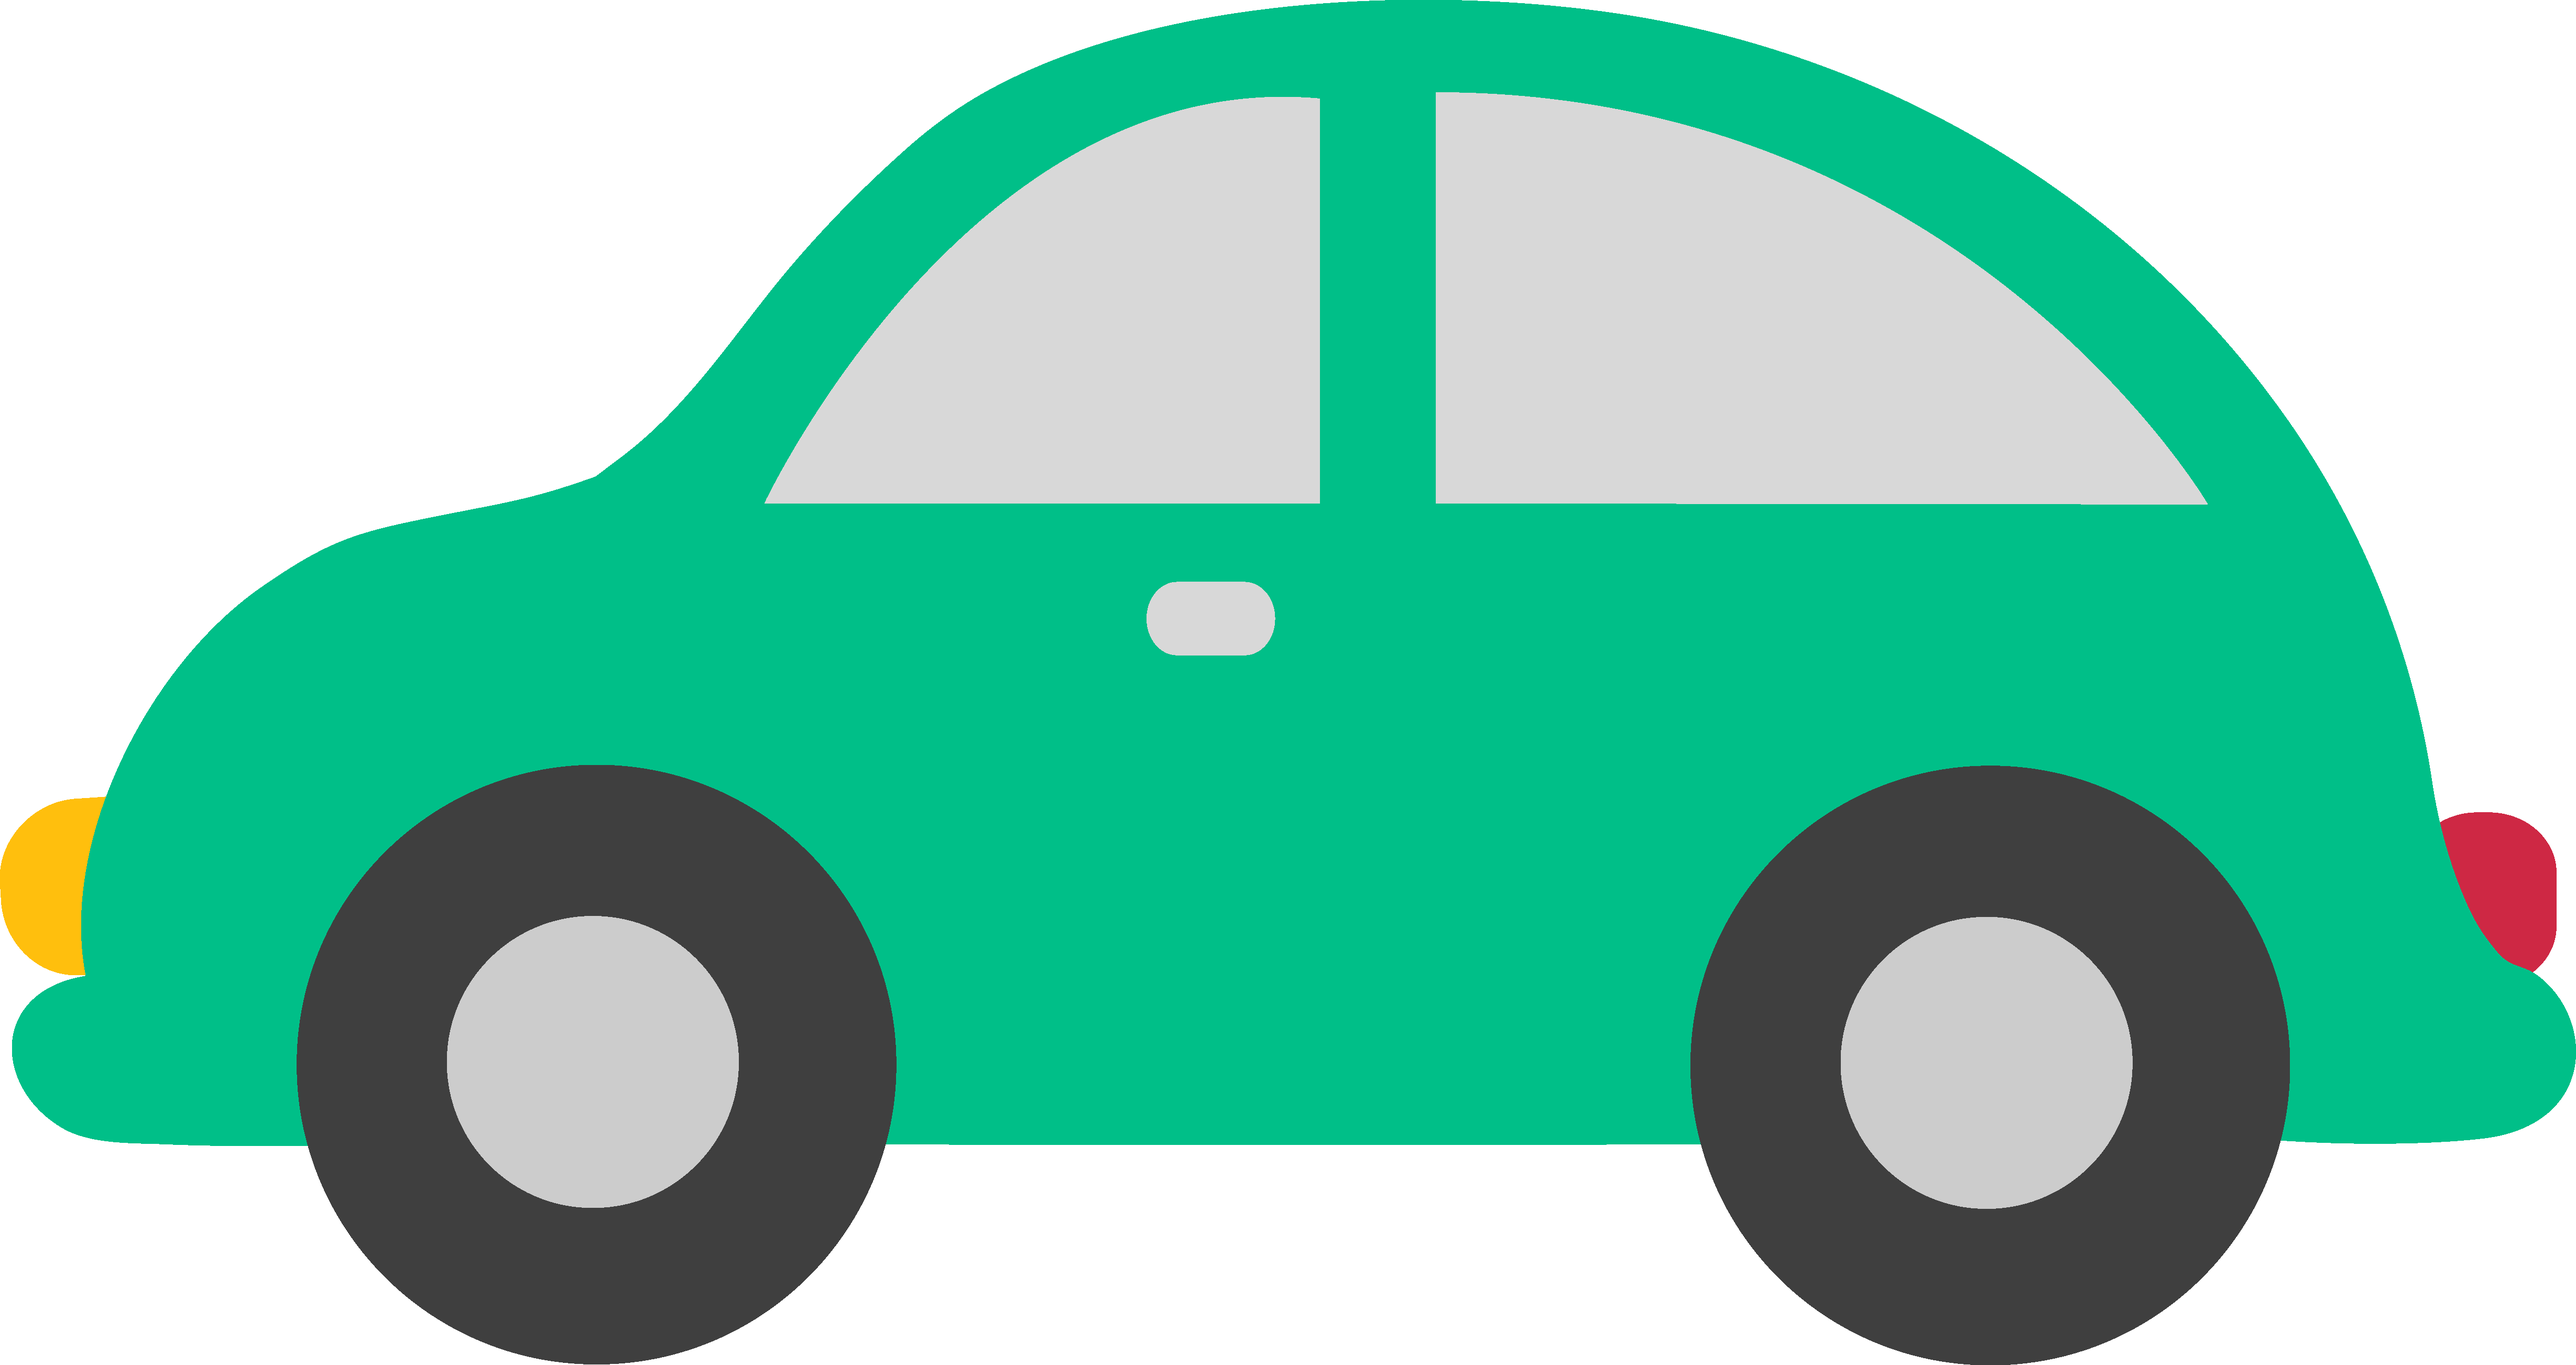
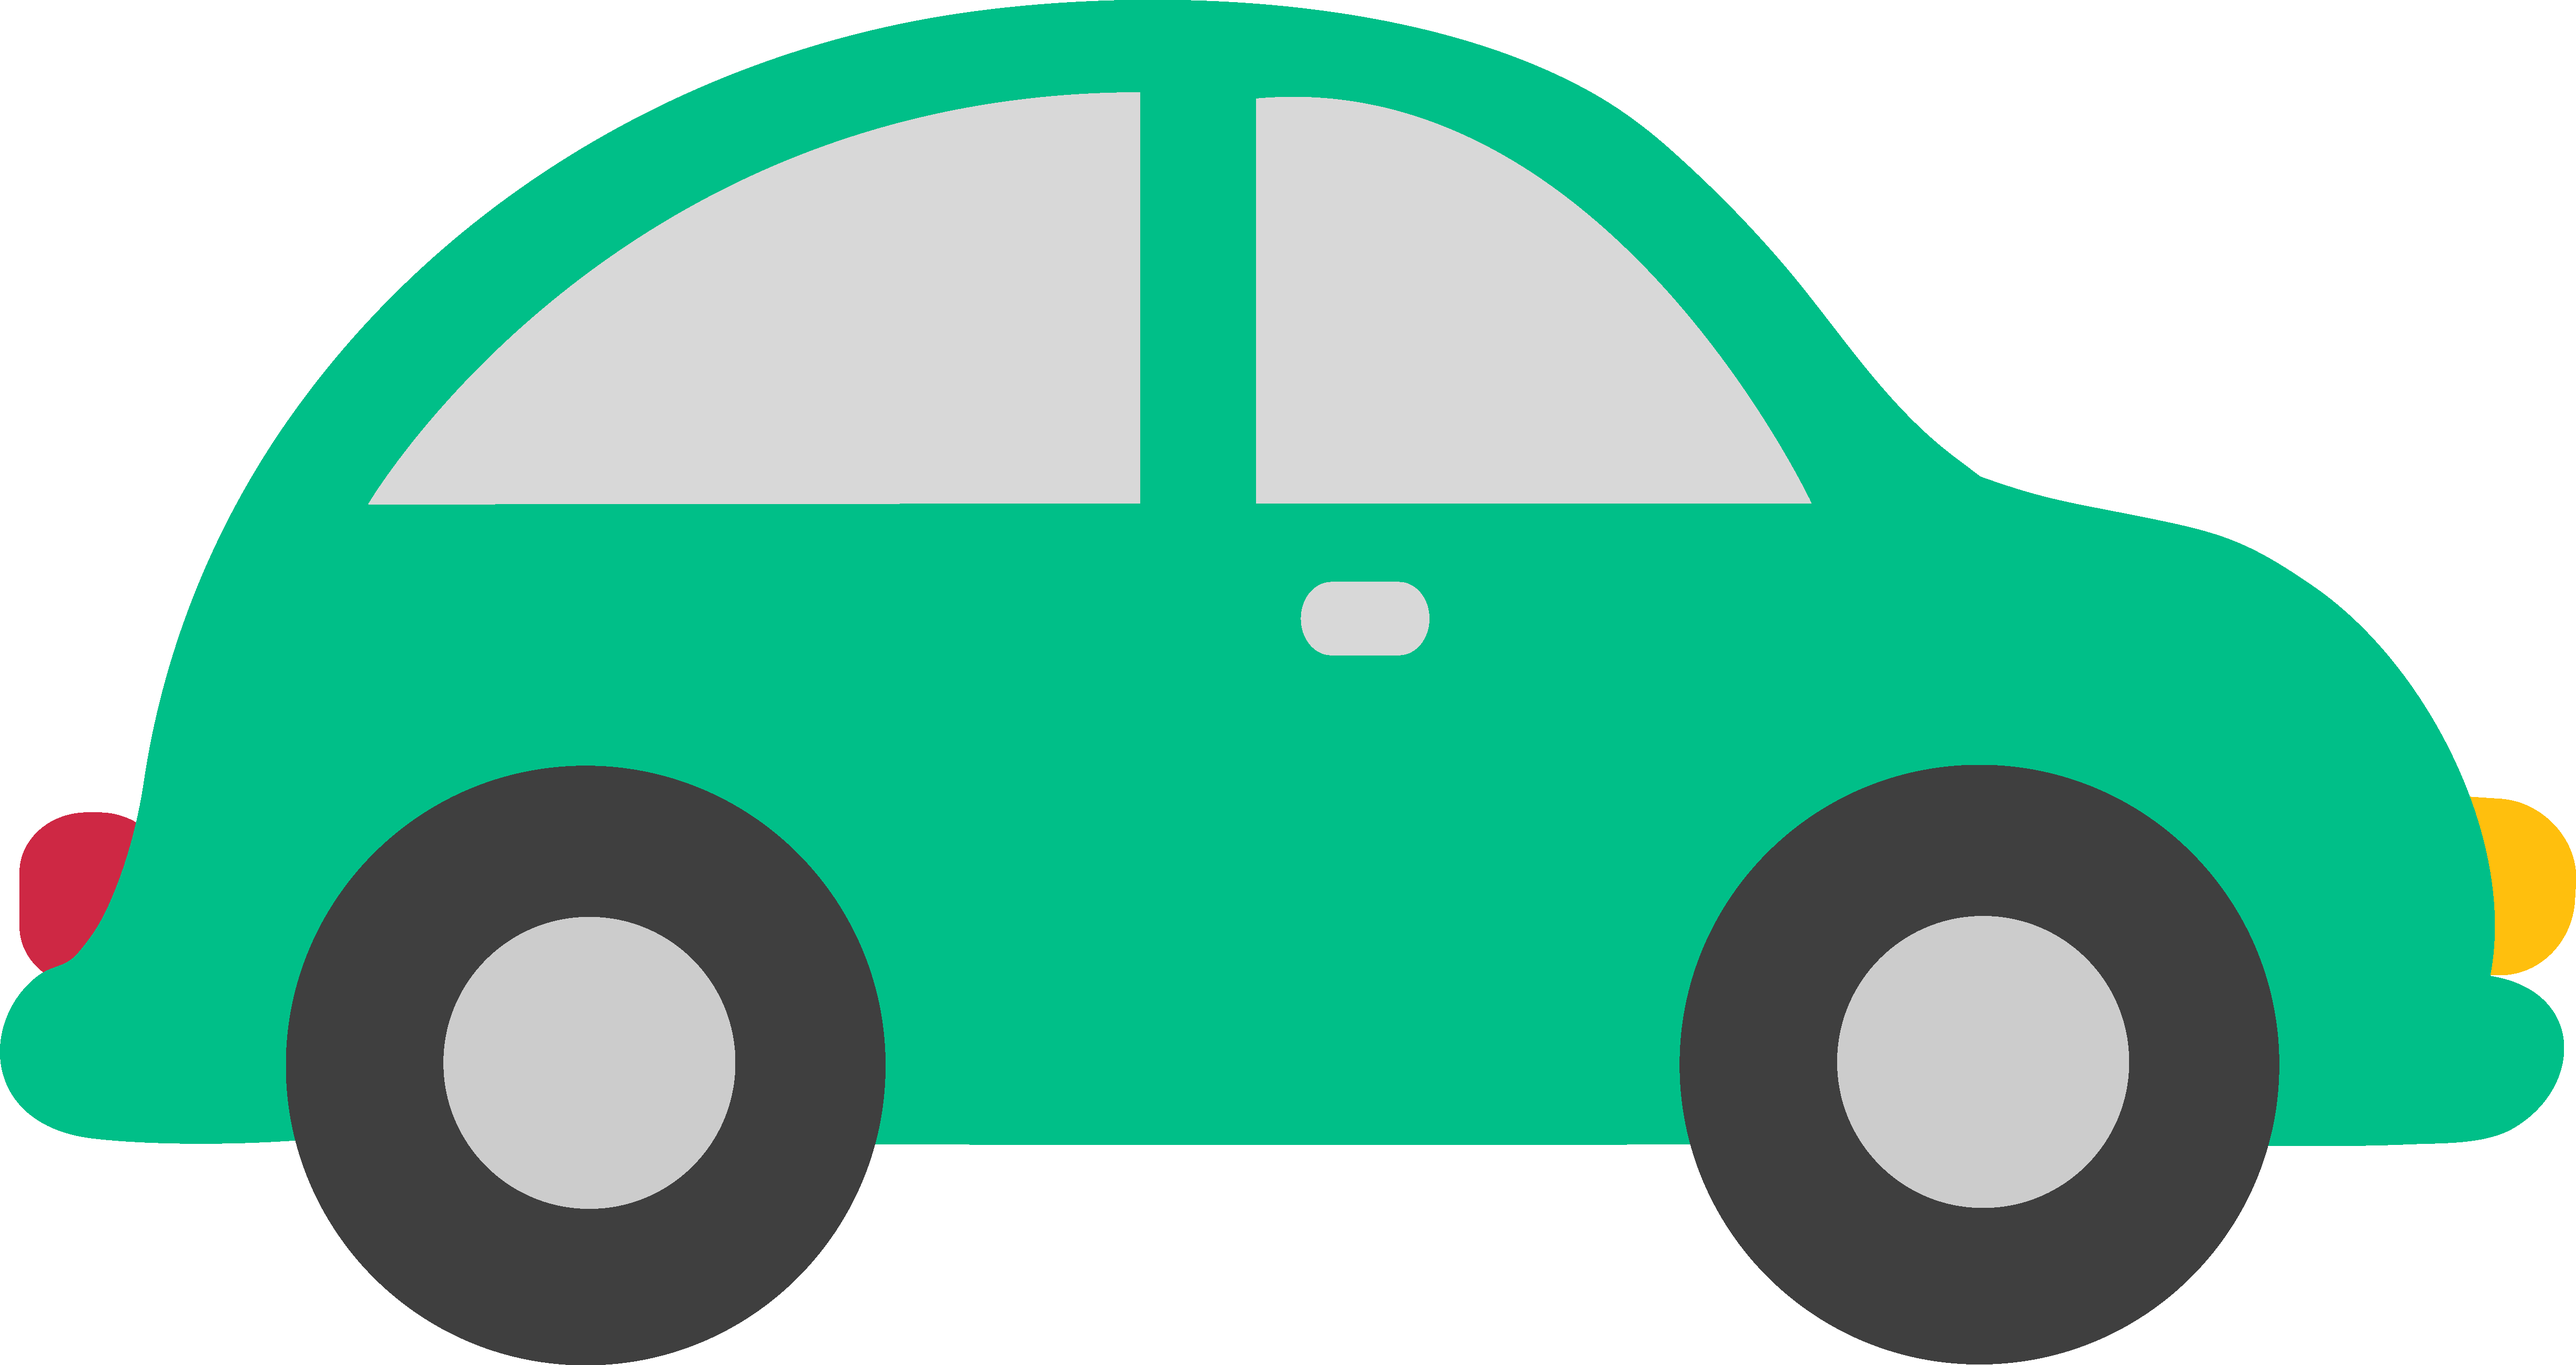
car animation

diff --git a/header.html b/header.html
@@ -21,6 +21,7 @@
 	</head>
 	<body>
 		<h1>Controlling Angry Road Rage Serially</h1>
+		<img src="smol_car.png" id="car">
 				<header class ="navbar" role = "banner">
 					<div class="container">
 						<nav class="navbar navbar-default">
@@ -47,6 +48,7 @@
     <!-- jQuery (necessary for Bootstrap's JavaScript plugins) -->
     <script src="https://ajax.googleapis.com/ajax/libs/jquery/1.12.4/jquery.min.js"></script>
     <!-- Include all compiled plugins (below), or include individual files as needed -->
-    <script src="js/bootstrap.min.js"></script>
+		<script src="js/bootstrap.min.js"></script>
+		<script src="header.js"></script>
   </body>
 </html>

diff --git a/header.js b/header.js
@@ -1,0 +1,7 @@
+$(function () {
+	var width = $(document).width();
+	width = width*10/12
+	$('#car').animate({
+		marginLeft: "+="+width+"px",
+	}, 10000);
+});
